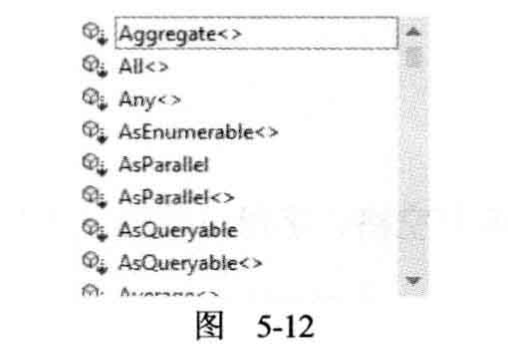
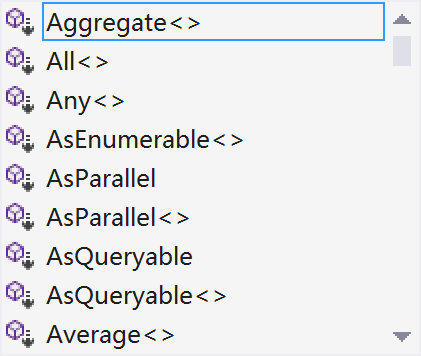
Updates 第5章 变量的更多内容/53-字符串的处理.md
Auto commit by GitBook Editor

diff --git a/SUMMARY.md b/SUMMARY.md
@@ -62,7 +62,7 @@
         * [5.2.3 数组](第5章 变量的更多内容/523-数组.md)
     * [5.3 字符串的处理](第5章 变量的更多内容/53-字符串的处理.md)
     * [5.4 小结](第5章 变量的更多内容/54-小结.md)
-    * 5.5 练习
+    * [5.5 练习](第5章 变量的更多内容/55-练习.md)
     * 5.6 本章要点
 * [第6章 函数](第6章 函数/6_函数.md)
     * [6.1 定义和使用函数](第6章 函数/61-定义和使用函数.md)

diff --git a/第5章 变量的更多内容/53-字符串的处理.md b/第5章 变量的更多内容/53-字符串的处理.md
@@ -124,7 +124,9 @@
 ```
 >输入最后的句点时，注意 ⚠会弹出如图 5-12 所示的窗口。
 
+
 >![图5-12](/assets/5-12.png)
+>**`图 5-12`**
 
 >不要移动光标，键入 sp，弹出窗口就会改变，显示一个工具提示窗口，如图 5-13 所示。
 
